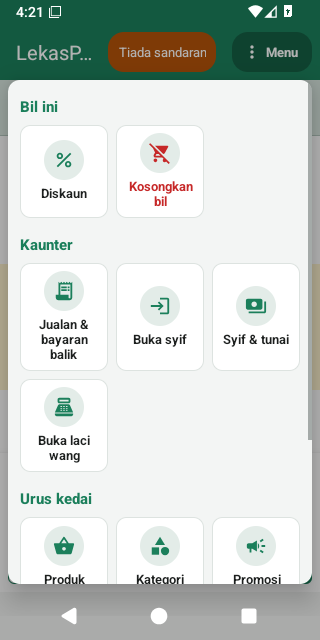
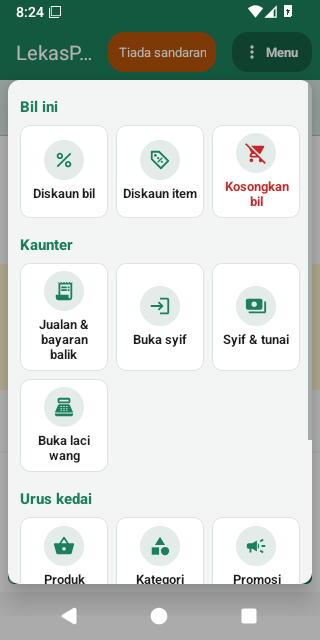
1.19.2: test build 203; Menu pictures with the two discount tiles
Claude-Session: https://claude.ai/code/session_015DuNPVadi1hRcxet1V8MJs

diff --git a/docs/PHASES.md b/docs/PHASES.md
@@ -43,7 +43,7 @@ to the user. **The next phase starts only after the user's real-device feedback.
 | — | **1.17.3**: the product form says what a barcode is and that the SKU is not one ("Your own code (SKU)") — the owner found the two read as the same thing | **released** 2026-10-13 (v1.17.3, build 187) — the owner asked to release it ("do it all for me") and checked it on the phone: "all good"; offered in the app to shops on 1.6.1+ |
 | — | **1.18.0**: the till asks to close the shift — Lock / switch user asks "Close the shift?", an optional closing-time reminder; the drawer's money moves renamed to what they are: Add cash, Pay from drawer, Take out extra cash (D-077) | **released** 2026-10-13 (v1.18.0, build 190) — tested by the owner: "ok all good now" |
 | — | **1.19.0 / 1.19.1**: the category chips in the top row beside a **Search** button; Search opens the box in their place (D-078); 1.19.1: the row on a light band, the selling screen audited — the row as high as the top bar, Camera with its word, the search box the whole row on a phone, "5 left" beside the tile price, the last sale first on an empty bill | **released** 2026-10-14 (v1.19.1, build 197) — the owner asked to publish it ("ok publish when CI done"); offered in the app to shops on 1.6.1+; tested by the owner: "i was check and all good" |
-| — | **1.19.2**: the Menu's one Discount tile split in two — **Bill discount** and **Item discount**; Item discount asks "Which item?" with the tapped line ticked (D-079) | on the working tree — not committed yet; then a test build and the owner's phone check |
+| — | **1.19.2**: the Menu's one Discount tile split in two — **Bill discount** and **Item discount**; Item discount asks "Which item?" with the tapped line ticked (D-079) | test build **v1.19.2** (build 203) — waiting for the owner's phone check |
 
 ## Open questions for the user
 
@@ -2285,9 +2285,12 @@ notice what different on menu while select item vs not."
 - [x] Docs: user guide EN + MS (cheat sheet, Discounts and price changes, the Menu table, troubleshooting), `features.md`,
       `architecture.md`, `glossary.md`, `codemap.md`, D-079. Nothing new stored or sent: privacy unchanged
 - [x] Local: `compileDebugKotlin`, `lintDebug` (no errors), `check-site.mjs` OK
-- [ ] Commit, CI green; release APK size
-- [ ] Guide pictures `en/ms-menu` refreshed from that run (they show the old Discount tile)
-- [ ] Test build v1.19.2; the owner's phone check
+- [x] CI run 38533459603 (190b3e7, build 203): all jobs green (build, lint, instrumented API 21 + 36, tablet, release smoke
+      API 21 + 36). Release APK **1,670,853 bytes**
+- [x] Guide pictures `en/ms-menu` from that run: Bill discount and Item discount side by side (EN and BM)
+- [x] **Test build v1.19.2** (2026-10-14): pre-release on 190b3e7, build 203; SHA-256 `5fc1efe1…4766`; certificate
+      `0a67abec…d4b9`; `mapping-1.19.2.txt` attached. 1.19.1 stays the latest release
+- [ ] The owner's phone check
 
 ### Phone checks for 1.19.2
 1. Scan two items, open the Menu: **Bill discount** and **Item discount** side by side under This bill.
